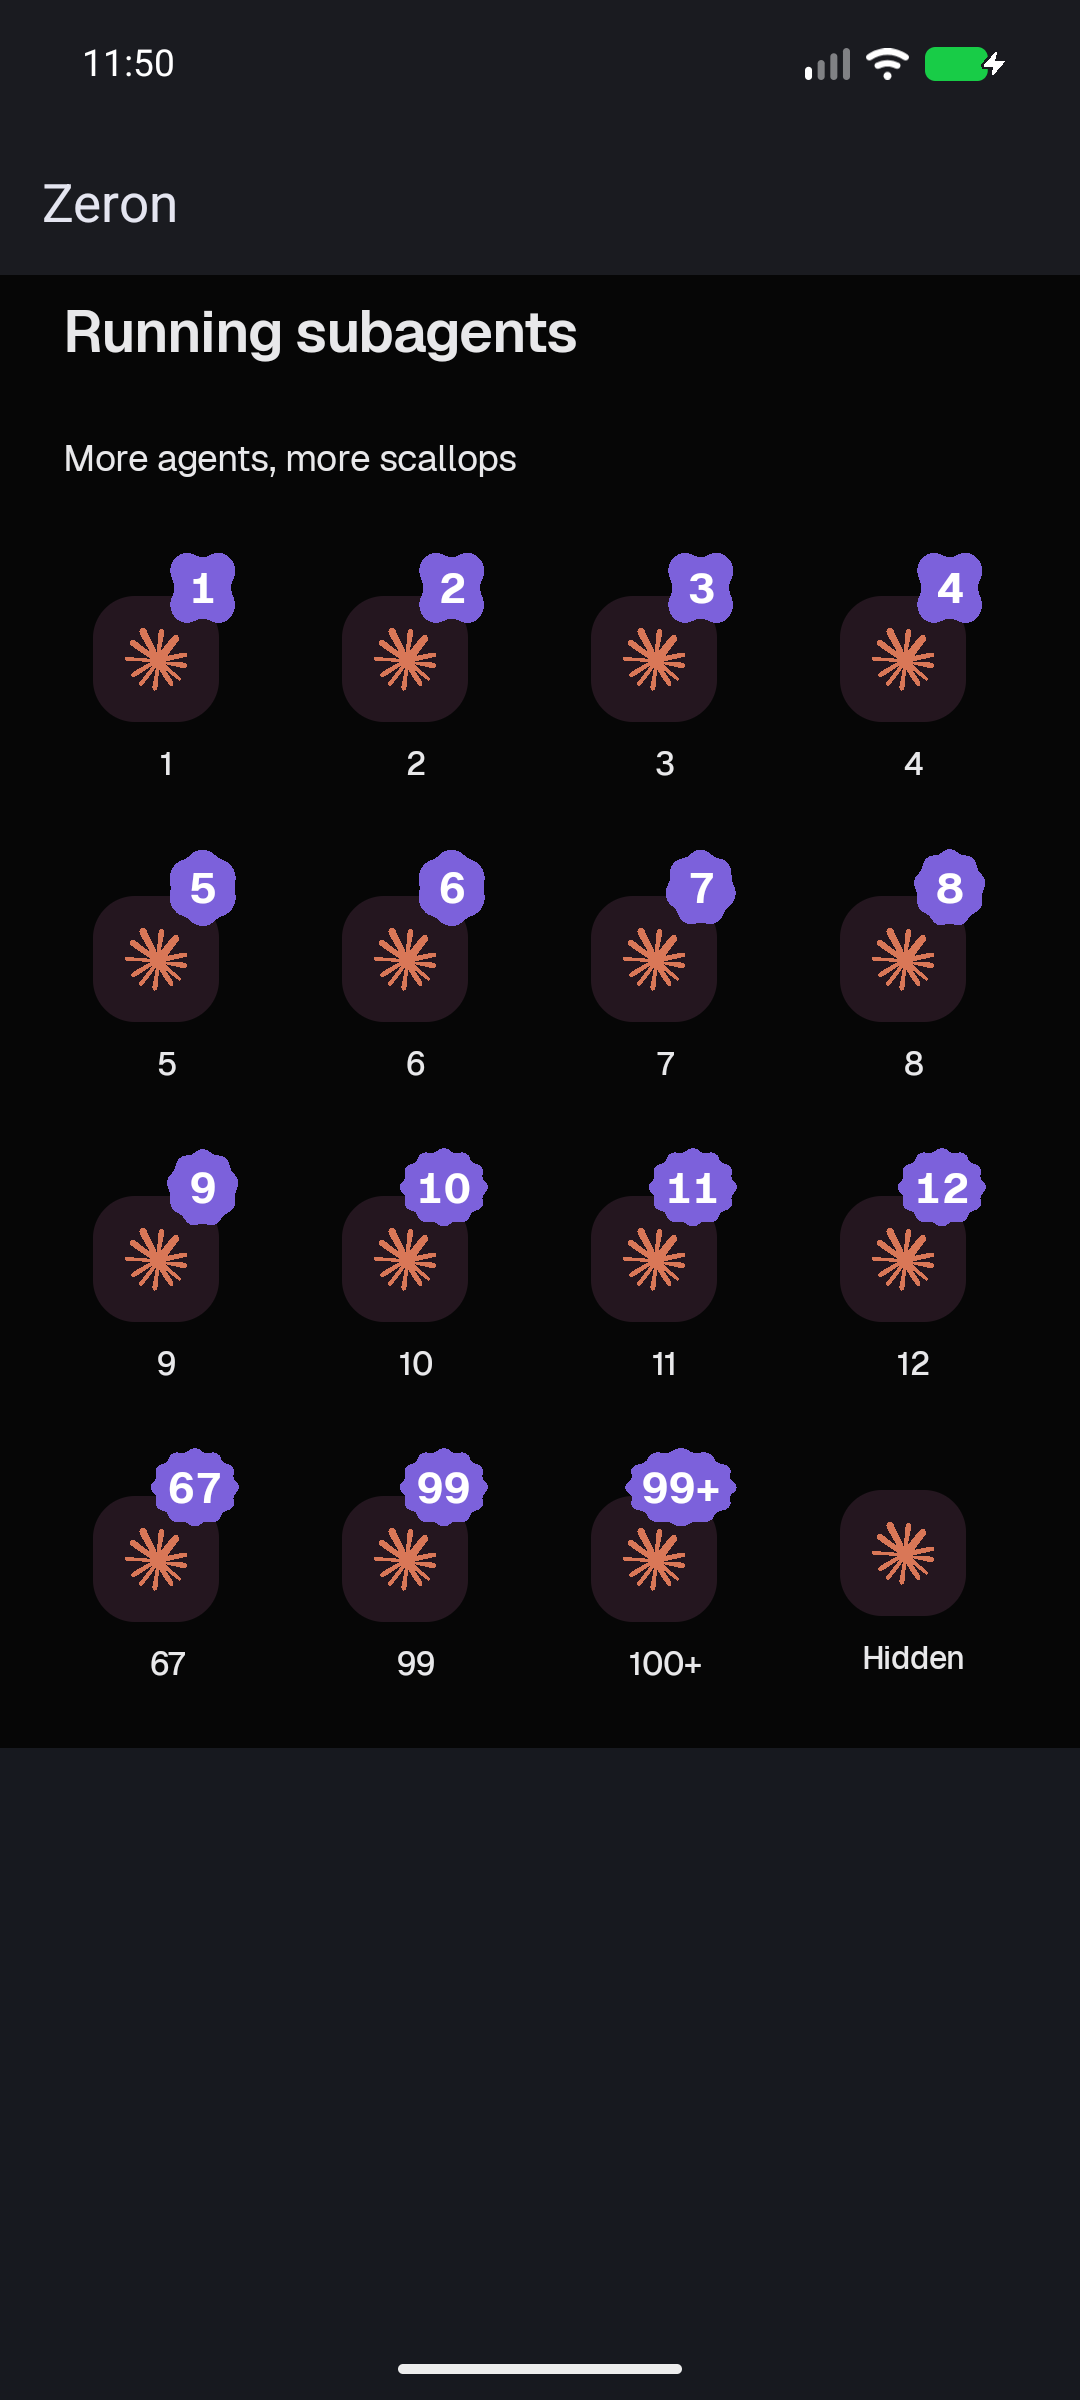
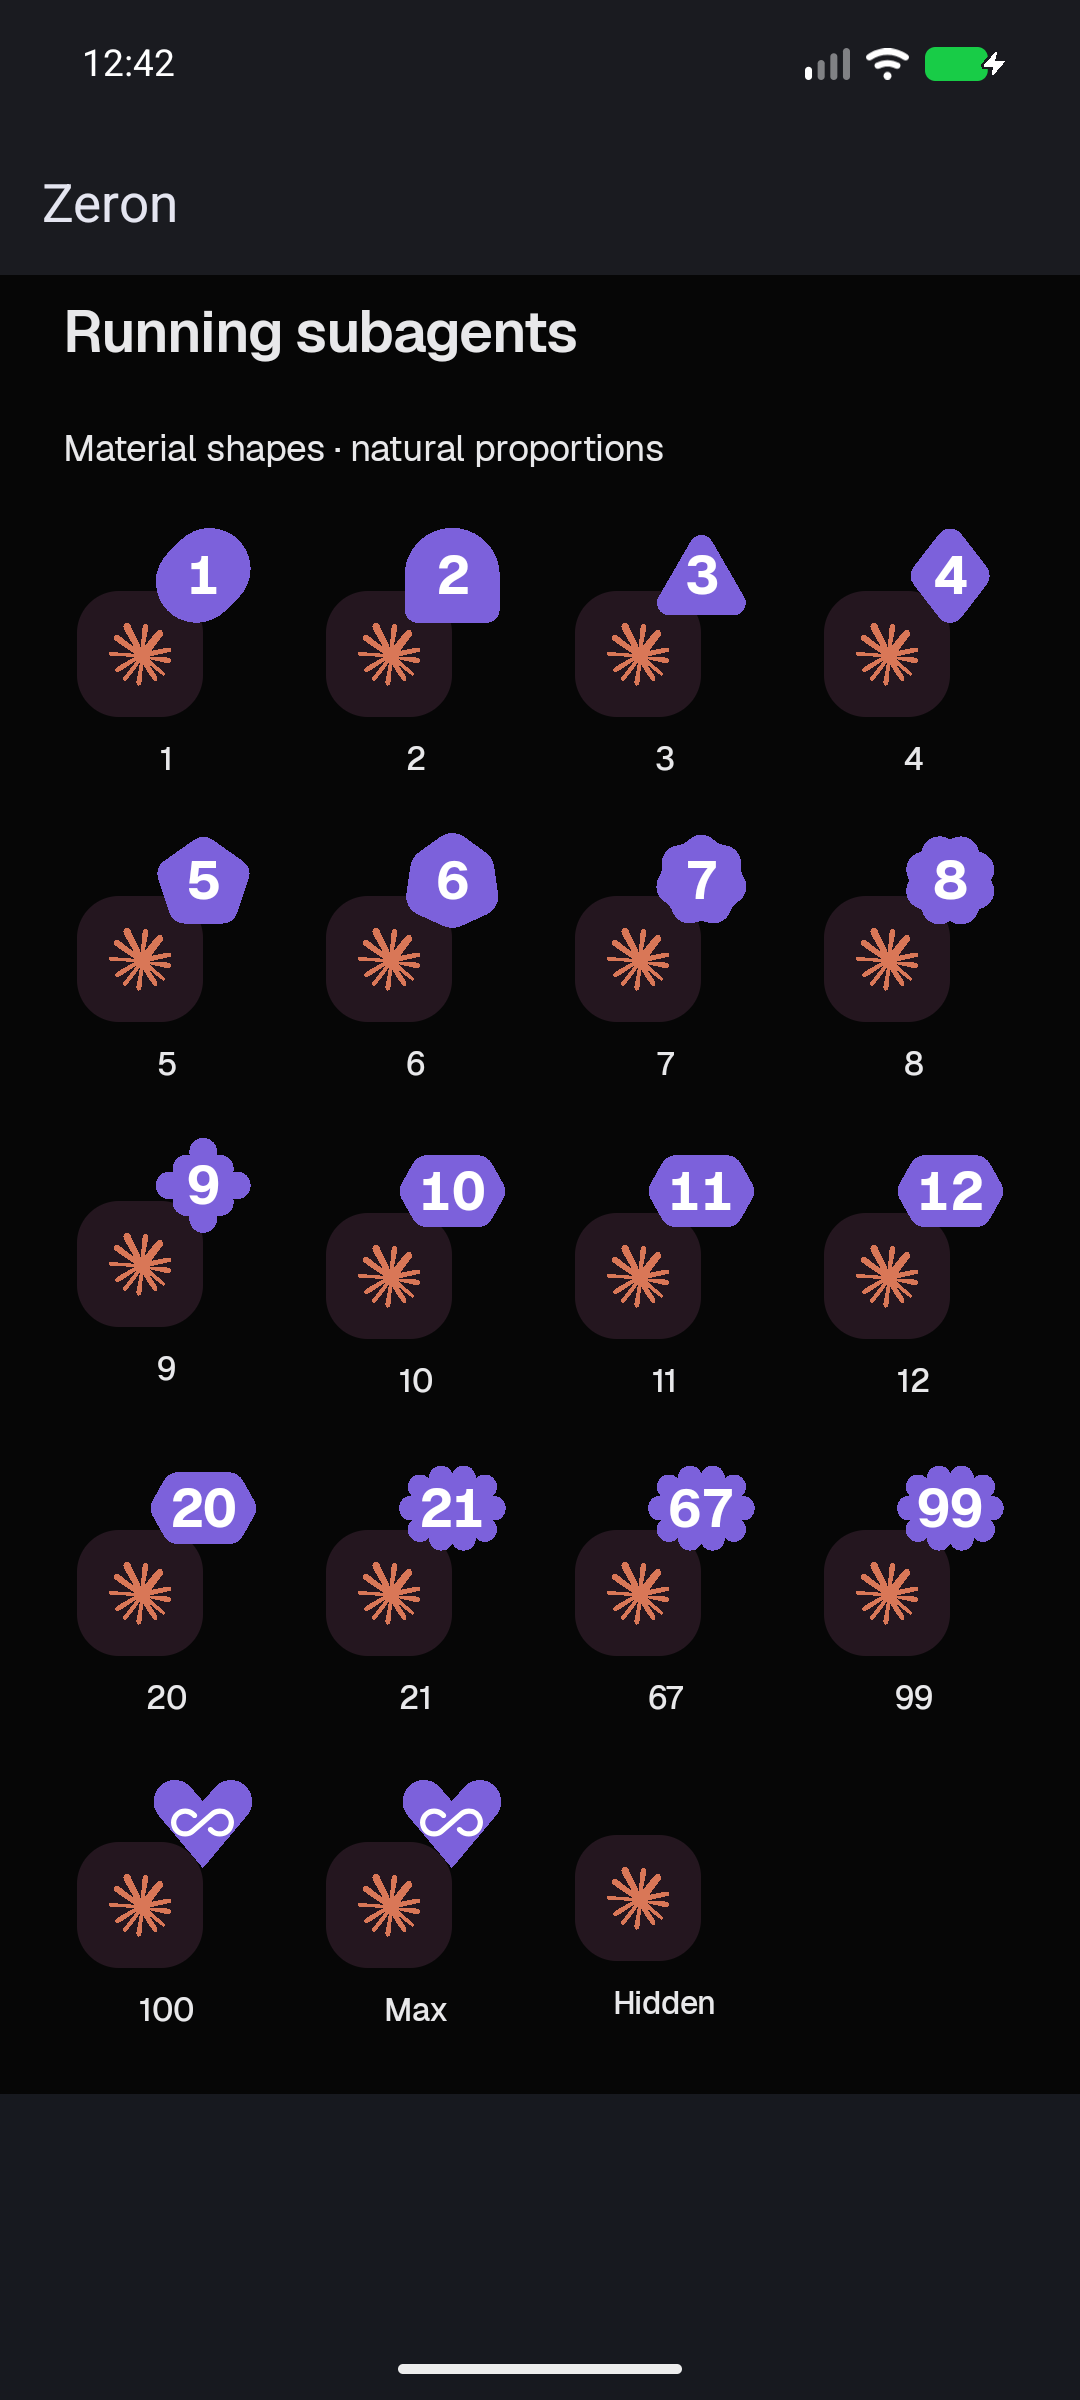
Use requested Material shapes for Android subagent counts

diff --git a/apps/android/app/src/main/java/sh/zeron/android/ui/ActivityBadge.kt b/apps/android/app/src/main/java/sh/zeron/android/ui/ActivityBadge.kt
@@ -5,32 +5,39 @@ import androidx.compose.foundation.layout.Arrangement
 import androidx.compose.foundation.layout.Box
 import androidx.compose.foundation.layout.Column
 import androidx.compose.foundation.layout.Row
-import androidx.compose.foundation.layout.defaultMinSize
 import androidx.compose.foundation.layout.padding
 import androidx.compose.foundation.layout.size
+import androidx.compose.foundation.rememberScrollState
 import androidx.compose.foundation.shape.RoundedCornerShape
+import androidx.compose.foundation.verticalScroll
+import androidx.compose.material.icons.Icons
+import androidx.compose.material.icons.rounded.AllInclusive
+import androidx.compose.material3.Icon
 import androidx.compose.material3.MaterialShapes
-import androidx.compose.material3.toShape
 import androidx.compose.material3.MaterialTheme
 import androidx.compose.material3.Surface
 import androidx.compose.material3.Text
+import androidx.compose.material3.toShape
 import androidx.compose.runtime.Composable
 import androidx.compose.ui.Alignment
 import androidx.compose.ui.Modifier
 import androidx.compose.ui.draw.clip
 import androidx.compose.ui.graphics.Color
 import androidx.compose.ui.layout.Layout
-import androidx.compose.ui.text.PlatformTextStyle
-import androidx.compose.ui.text.style.TextAlign
-import androidx.compose.ui.unit.Constraints
-import androidx.compose.ui.unit.constrainWidth
-import androidx.compose.ui.unit.constrainHeight
+import androidx.compose.ui.platform.LocalDensity
+import androidx.compose.ui.semantics.clearAndSetSemantics
 import androidx.compose.ui.semantics.contentDescription
-import androidx.compose.ui.semantics.semantics
+import androidx.compose.ui.text.PlatformTextStyle
 import androidx.compose.ui.text.font.FontWeight
+import androidx.compose.ui.text.style.TextAlign
 import androidx.compose.ui.tooling.preview.Preview
+import androidx.compose.ui.unit.Constraints
+import androidx.compose.ui.unit.constrainHeight
+import androidx.compose.ui.unit.constrainWidth
 import androidx.compose.ui.unit.dp
 import androidx.compose.ui.unit.sp
+import kotlin.math.ceil
+import kotlin.math.max
 import sh.zeron.android.core.SessionActivity
 import sh.zeron.android.design.HarnessMark
 import sh.zeron.android.design.LocalDarkTheme
@@ -43,40 +50,62 @@ fun sessionActivityColor(shape: SessionActivity.Shape): Color = when (shape) {
     SessionActivity.Shape.CallbackWaiting -> if (LocalDarkTheme.current) Color(0xFF8AB4FF) else Color(0xFF2967D8)
 }
 
-/** More running children add scallops; the exact, capped count stays readable. */
+/** Canonical Material shapes keep their proportions, even for wide labels. */
 @Composable
 private fun SubagentCountBadge(count: UInt, modifier: Modifier = Modifier) {
-    val label = SessionActivity.badgeLabel(count) ?: return
-    val polygon = when {
-        count <= 4u -> MaterialShapes.Cookie4Sided
-        count <= 6u -> MaterialShapes.Cookie6Sided
-        count <= 7u -> MaterialShapes.Cookie7Sided
-        count <= 9u -> MaterialShapes.Cookie9Sided
-        else -> MaterialShapes.Cookie12Sided
+    if (count == 0u) return
+    val label = SessionActivity.badgeLabel(count)
+    val polygon = when (count) {
+        1u -> MaterialShapes.Pill
+        2u -> MaterialShapes.Arch
+        3u -> MaterialShapes.Triangle
+        4u -> MaterialShapes.Diamond
+        5u -> MaterialShapes.Pentagon
+        6u -> MaterialShapes.Gem
+        7u -> MaterialShapes.Cookie7Sided
+        8u -> MaterialShapes.Clover8Leaf
+        9u -> MaterialShapes.PuffyDiamond
+        in 10u..20u -> MaterialShapes.ClamShell
+        in 21u..99u -> MaterialShapes.Puffy
+        else -> MaterialShapes.Heart
     }
-    Box(
-        modifier.defaultMinSize(minWidth = 28.dp, minHeight = 28.dp)
+    val iconSize = with(LocalDensity.current) { 24.sp.toDp() }
+    Layout(
+        modifier = modifier
             .background(if (LocalDarkTheme.current) Color(0xFF7C61DB) else Color(0xFF5B43E8), polygon.toShape())
-            .semantics(mergeDescendants = true) {
+            .clearAndSetSemantics {
+                // The overflow icon is visual shorthand; announce the real count.
                 contentDescription = if (count == 1u) "1 subagent running" else "$count subagents running"
+            },
+        content = {
+            if (label == null) {
+                Icon(Icons.Rounded.AllInclusive, contentDescription = null, modifier = Modifier.size(iconSize), tint = Color.White)
+            } else {
+                Text(
+                    label,
+                    color = Color.White,
+                    maxLines = 1,
+                    softWrap = false,
+                    style = MaterialTheme.typography.labelLarge.copy(
+                        fontSize = 20.sp,
+                        lineHeight = 22.sp,
+                        fontWeight = FontWeight.Bold,
+                        fontFeatureSettings = "tnum",
+                        textAlign = TextAlign.Center,
+                        platformStyle = PlatformTextStyle(includeFontPadding = false),
+                    ),
+                )
             }
-            .padding(horizontal = 7.dp, vertical = 5.dp),
-        contentAlignment = Alignment.Center,
-    ) {
-        Text(
-            label,
-            color = Color.White,
-            maxLines = 1,
-            softWrap = false,
-            style = MaterialTheme.typography.labelLarge.copy(
-                fontSize = 16.sp,
-                lineHeight = 18.sp,
-                fontWeight = FontWeight.Bold,
-                fontFeatureSettings = "tnum",
-                textAlign = TextAlign.Center,
-                platformStyle = PlatformTextStyle(includeFontPadding = false),
-            ),
-        )
+        },
+    ) { measurables, _ ->
+        val content = measurables.single().measure(Constraints())
+        // Material's polygons retain their native aspect ratio inside a square
+        // viewport. Measure the label, then grow this viewport uniformly; never
+        // stretch a polygon to the label's rectangular bounds.
+        val side = max(36.dp.roundToPx(), ceil(max(content.width / .62f, content.height / .72f)).toInt())
+        layout(side, side) {
+            content.placeRelative((side - content.width) / 2, (side - content.height) / 2)
+        }
     }
 }
 
@@ -93,13 +122,14 @@ fun HarnessActivityTile(harness: String?, tone: Color, running: UInt) {
     }) { measurables, constraints ->
         val tile = measurables[0].measure(Constraints.fixed(48.dp.roundToPx(), 48.dp.roundToPx()))
         val badge = measurables.getOrNull(1)?.measure(Constraints())
-        val badgeHeight = maxOf(28.dp.roundToPx(), badge?.height ?: 0)
-        val width = constraints.constrainWidth(maxOf(56.dp.roundToPx(), badge?.width ?: 0))
+        val badgeHeight = maxOf(36.dp.roundToPx(), badge?.height ?: 0)
+        val badgeLeft = tile.width - (badge?.width ?: 0) / 2
+        val width = constraints.constrainWidth(maxOf(68.dp.roundToPx(), badgeLeft + (badge?.width ?: 0)))
         val tileTop = badgeHeight - 12.dp.roundToPx()
         val height = constraints.constrainHeight(tileTop + tile.height)
         layout(width, height) {
             tile.placeRelative(0, tileTop)
-            badge?.placeRelative(width - badge.width, 0)
+            badge?.placeRelative(badgeLeft, 0)
         }
     }
 }
@@ -110,17 +140,18 @@ fun HarnessActivityTile(harness: String?, tone: Color, running: UInt) {
 fun ActivityBadgePreview() {
     ZeronTheme {
         Surface {
-            Column(Modifier.padding(start = 24.dp, end = 24.dp, top = 112.dp, bottom = 24.dp), verticalArrangement = Arrangement.spacedBy(24.dp)) {
+            Column(Modifier.verticalScroll(rememberScrollState()).padding(start = 24.dp, end = 24.dp, top = 112.dp, bottom = 24.dp), verticalArrangement = Arrangement.spacedBy(20.dp)) {
                 Text("Running subagents", style = MaterialTheme.typography.titleLarge)
-                Text("More agents, more scallops", style = MaterialTheme.typography.bodyMedium)
-                listOf(1u, 2u, 3u, 4u, 5u, 6u, 7u, 8u, 9u, 10u, 11u, 12u, 67u, 99u, 100u, 0u).chunked(4).forEach { counts ->
+                Text("Material shapes · natural proportions", style = MaterialTheme.typography.bodyMedium)
+                listOf(1u, 2u, 3u, 4u, 5u, 6u, 7u, 8u, 9u, 10u, 11u, 12u, 20u, 21u, 67u, 99u, 100u, UInt.MAX_VALUE, 0u).chunked(4).forEach { counts ->
                     Row(horizontalArrangement = Arrangement.spacedBy(16.dp)) {
                         counts.forEach { count ->
                             Column(Modifier.weight(1f), horizontalAlignment = Alignment.CenterHorizontally, verticalArrangement = Arrangement.spacedBy(8.dp)) {
                                 HarnessActivityTile("claude-code", Color(0xFFAB6092), count)
-                                Text(if (count == 0u) "Hidden" else if (count > 99u) "100+" else "$count", style = MaterialTheme.typography.labelMedium)
+                                Text(if (count == 0u) "Hidden" else if (count == UInt.MAX_VALUE) "Max" else "$count", style = MaterialTheme.typography.labelMedium)
                             }
                         }
+                        repeat(4 - counts.size) { Box(Modifier.weight(1f)) }
                     }
                 }
             }

diff --git a/apps/android/app/src/test/java/sh/zeron/android/core/SessionActivityTest.kt b/apps/android/app/src/test/java/sh/zeron/android/core/SessionActivityTest.kt
@@ -38,13 +38,13 @@ class SessionActivityTest {
         assertFalse(SessionActivity.isWorking(ChatIndicator.IDLE, 0u, 0u))
     }
 
-    @Test fun badgeIsHiddenAtZeroAndCapsSafelyWithoutSignedOverflow() {
+    @Test fun badgeHasNoTextForZeroOrOverflowIcon() {
         assertNull(SessionActivity.badgeLabel(0u))
         assertEquals("1", SessionActivity.badgeLabel(1u))
         assertEquals("9", SessionActivity.badgeLabel(9u))
         assertEquals("10", SessionActivity.badgeLabel(10u))
         assertEquals("99", SessionActivity.badgeLabel(99u))
-        assertEquals("99+", SessionActivity.badgeLabel(100u))
-        assertEquals("99+", SessionActivity.badgeLabel(UInt.MAX_VALUE))
+        assertNull(SessionActivity.badgeLabel(100u))
+        assertNull(SessionActivity.badgeLabel(UInt.MAX_VALUE))
     }
 }

diff --git a/apps/android/app/src/main/java/sh/zeron/android/core/SessionActivity.kt b/apps/android/app/src/main/java/sh/zeron/android/core/SessionActivity.kt
@@ -25,9 +25,9 @@ object SessionActivity {
 
     fun isWorking(row: SessionRow): Boolean = isWorking(row.indicator, row.runningSubagents, row.pendingCallbacks)
 
+    /** Overflow uses an icon; neither it nor the hidden zero badge has text. */
     fun badgeLabel(count: UInt): String? = when {
-        count == 0u -> null
-        count > 99u -> "99+"
+        count == 0u || count > 99u -> null
         else -> count.toString()
     }
 }

diff --git a/docs/android.md b/docs/android.md
@@ -475,13 +475,17 @@ The desktop's Subagents view (#638, #647), on the phone:
   running first, longest-running on top, then unstamped; finished ones split
   into Completed and Failed, newest first.
 - **Sessions list**: a purple badge at the provider tile's top-right shows
-  the active subagent count in bold, centered numerals and caps at "99+".
-  Material cookie shapes gain scallops as the count rises: 4 sides for 1–4,
-  6 for 5–6, 7 for 7, 9 for 8–9, and 12 for 10 or more. The badge measures
-  its text (including accessibility font scaling), reserves space above the
-  logo, and is hidden at zero. `ActivityBadgePreview` shows 1–12, 67, 99,
-  99+, and the hidden state in the app theme. The rotating Material shape is purple while the main thread
-  runs, yellow when the main thread is idle with running subagents, and blue
+  the active subagent count in bold, centered numerals. Shape mapping: Pill
+  (1), Arch (2), Triangle (3), Diamond (4), Pentagon (5), Gem (6), 7-sided
+  Cookie (7), 8-leaf Clover (8), Puffy Diamond (9), Clam Shell (10–20), and
+  Puffy (21–99). Above 99, a Heart contains Material's standard rounded
+  `AllInclusive` infinity icon; accessibility still announces the actual count.
+  The badge is hidden at zero. Every shape uses a square viewport and uniform
+  scaling to preserve its original proportions, grows with accessibility text,
+  and reserves space above the provider logo. `ActivityBadgePreview` shows all
+  shapes, the range boundaries, and overflow. The rotating Material activity
+  shape is purple while the main thread runs, yellow when the main thread is
+  idle with running subagents, and blue
   when an idle main thread has a confirmed background callback. Input and
   Failed labels remain visible when the main thread needs attention.
   Chats with active subagents or callbacks count toward **Working**, including
